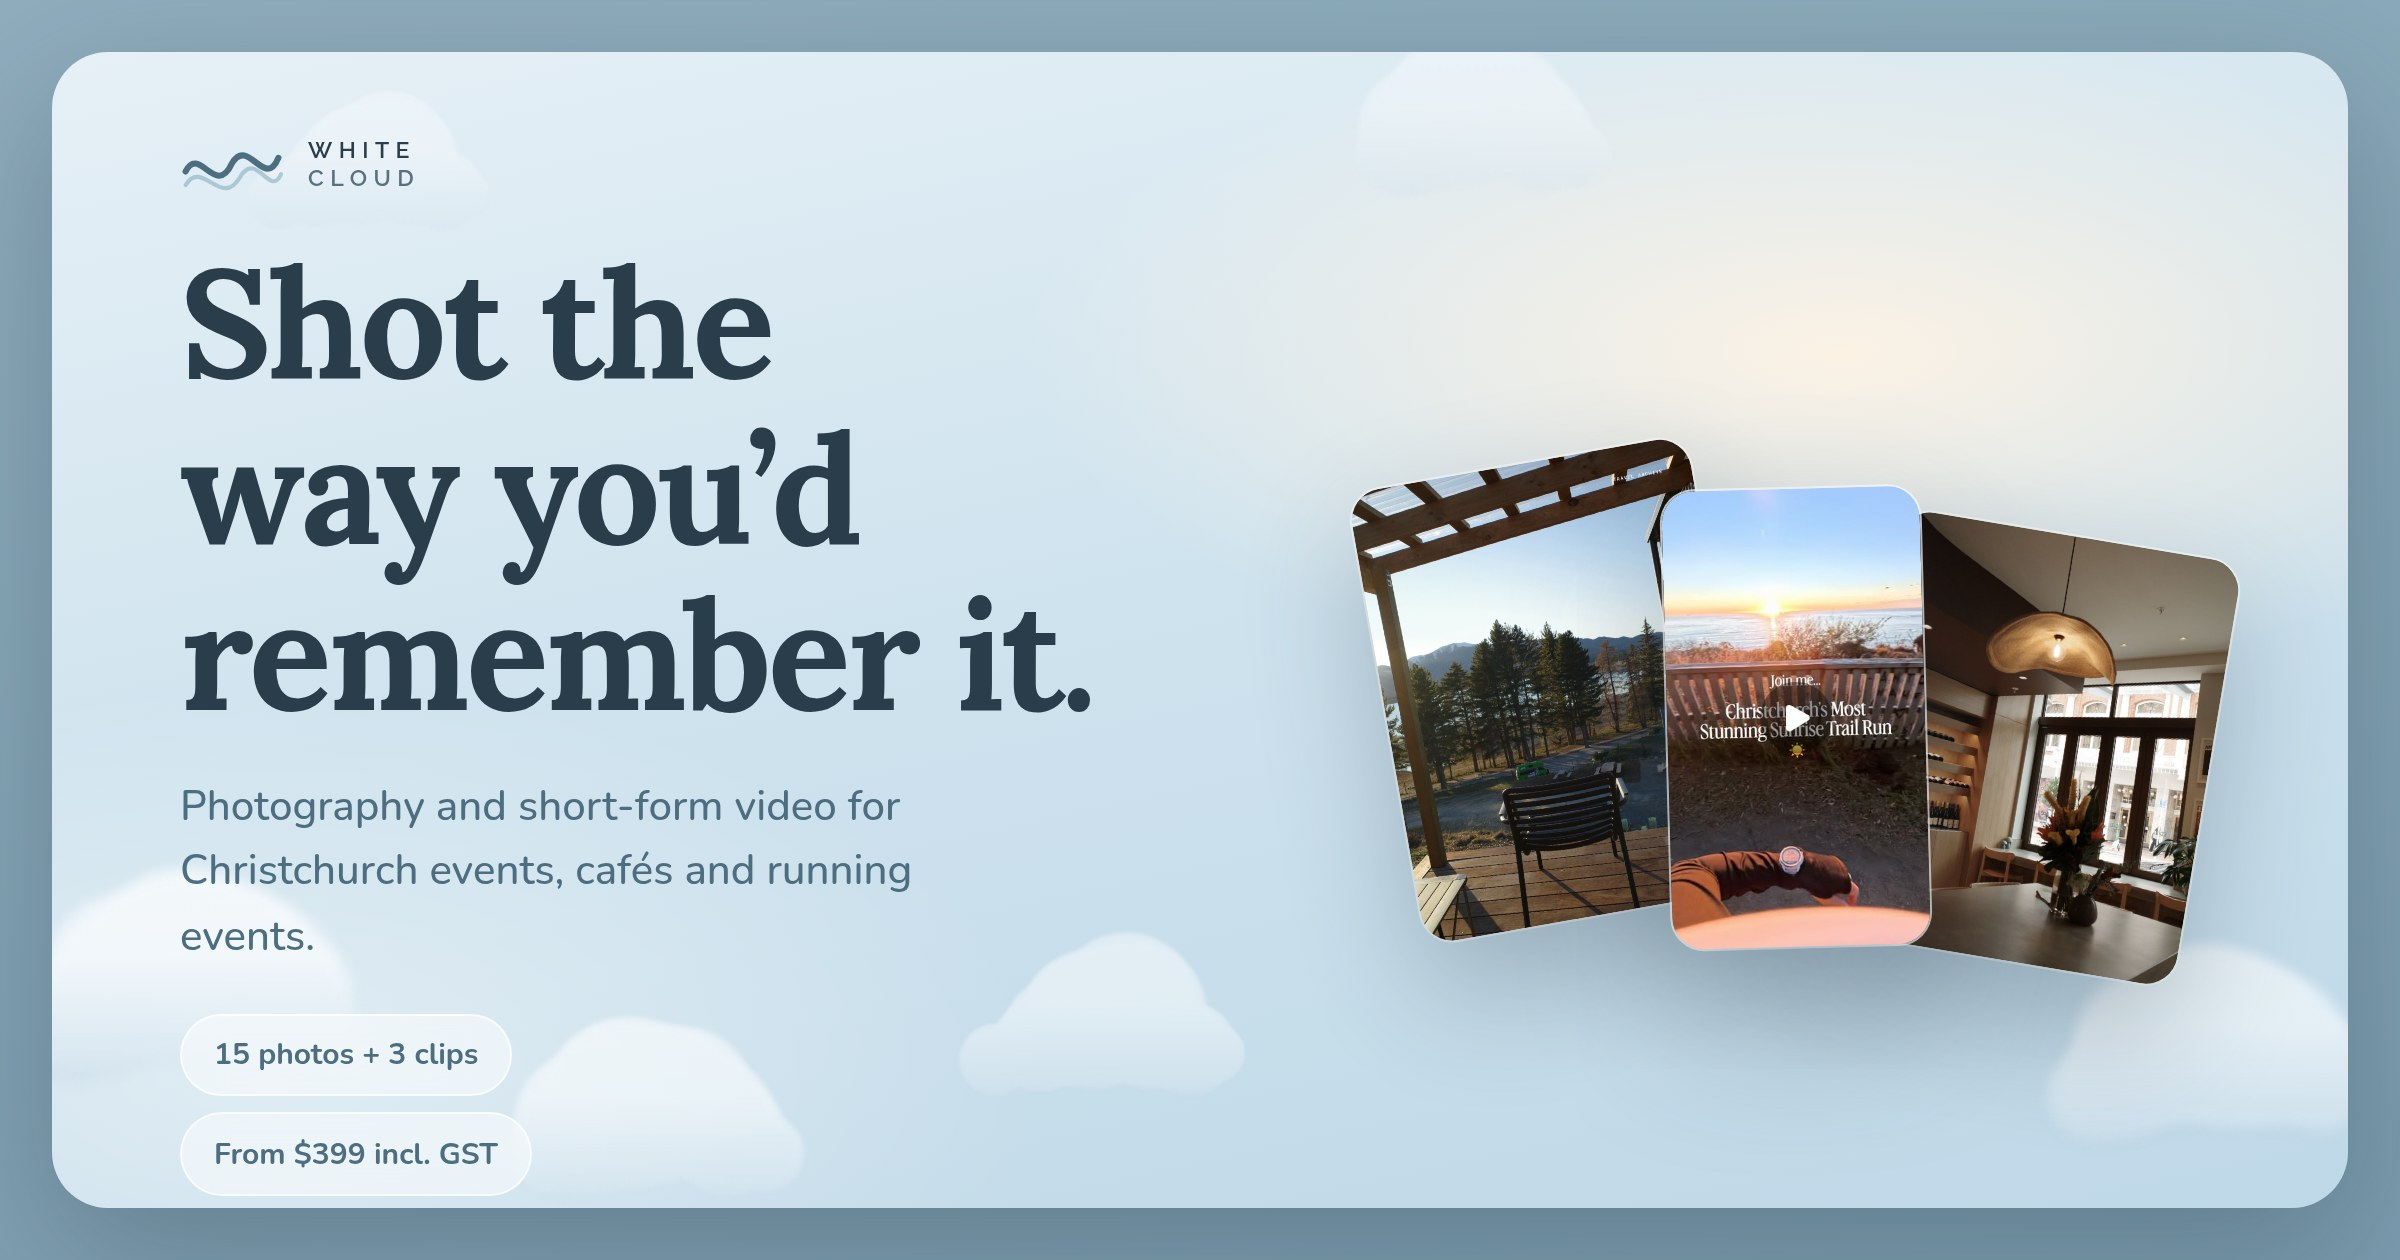
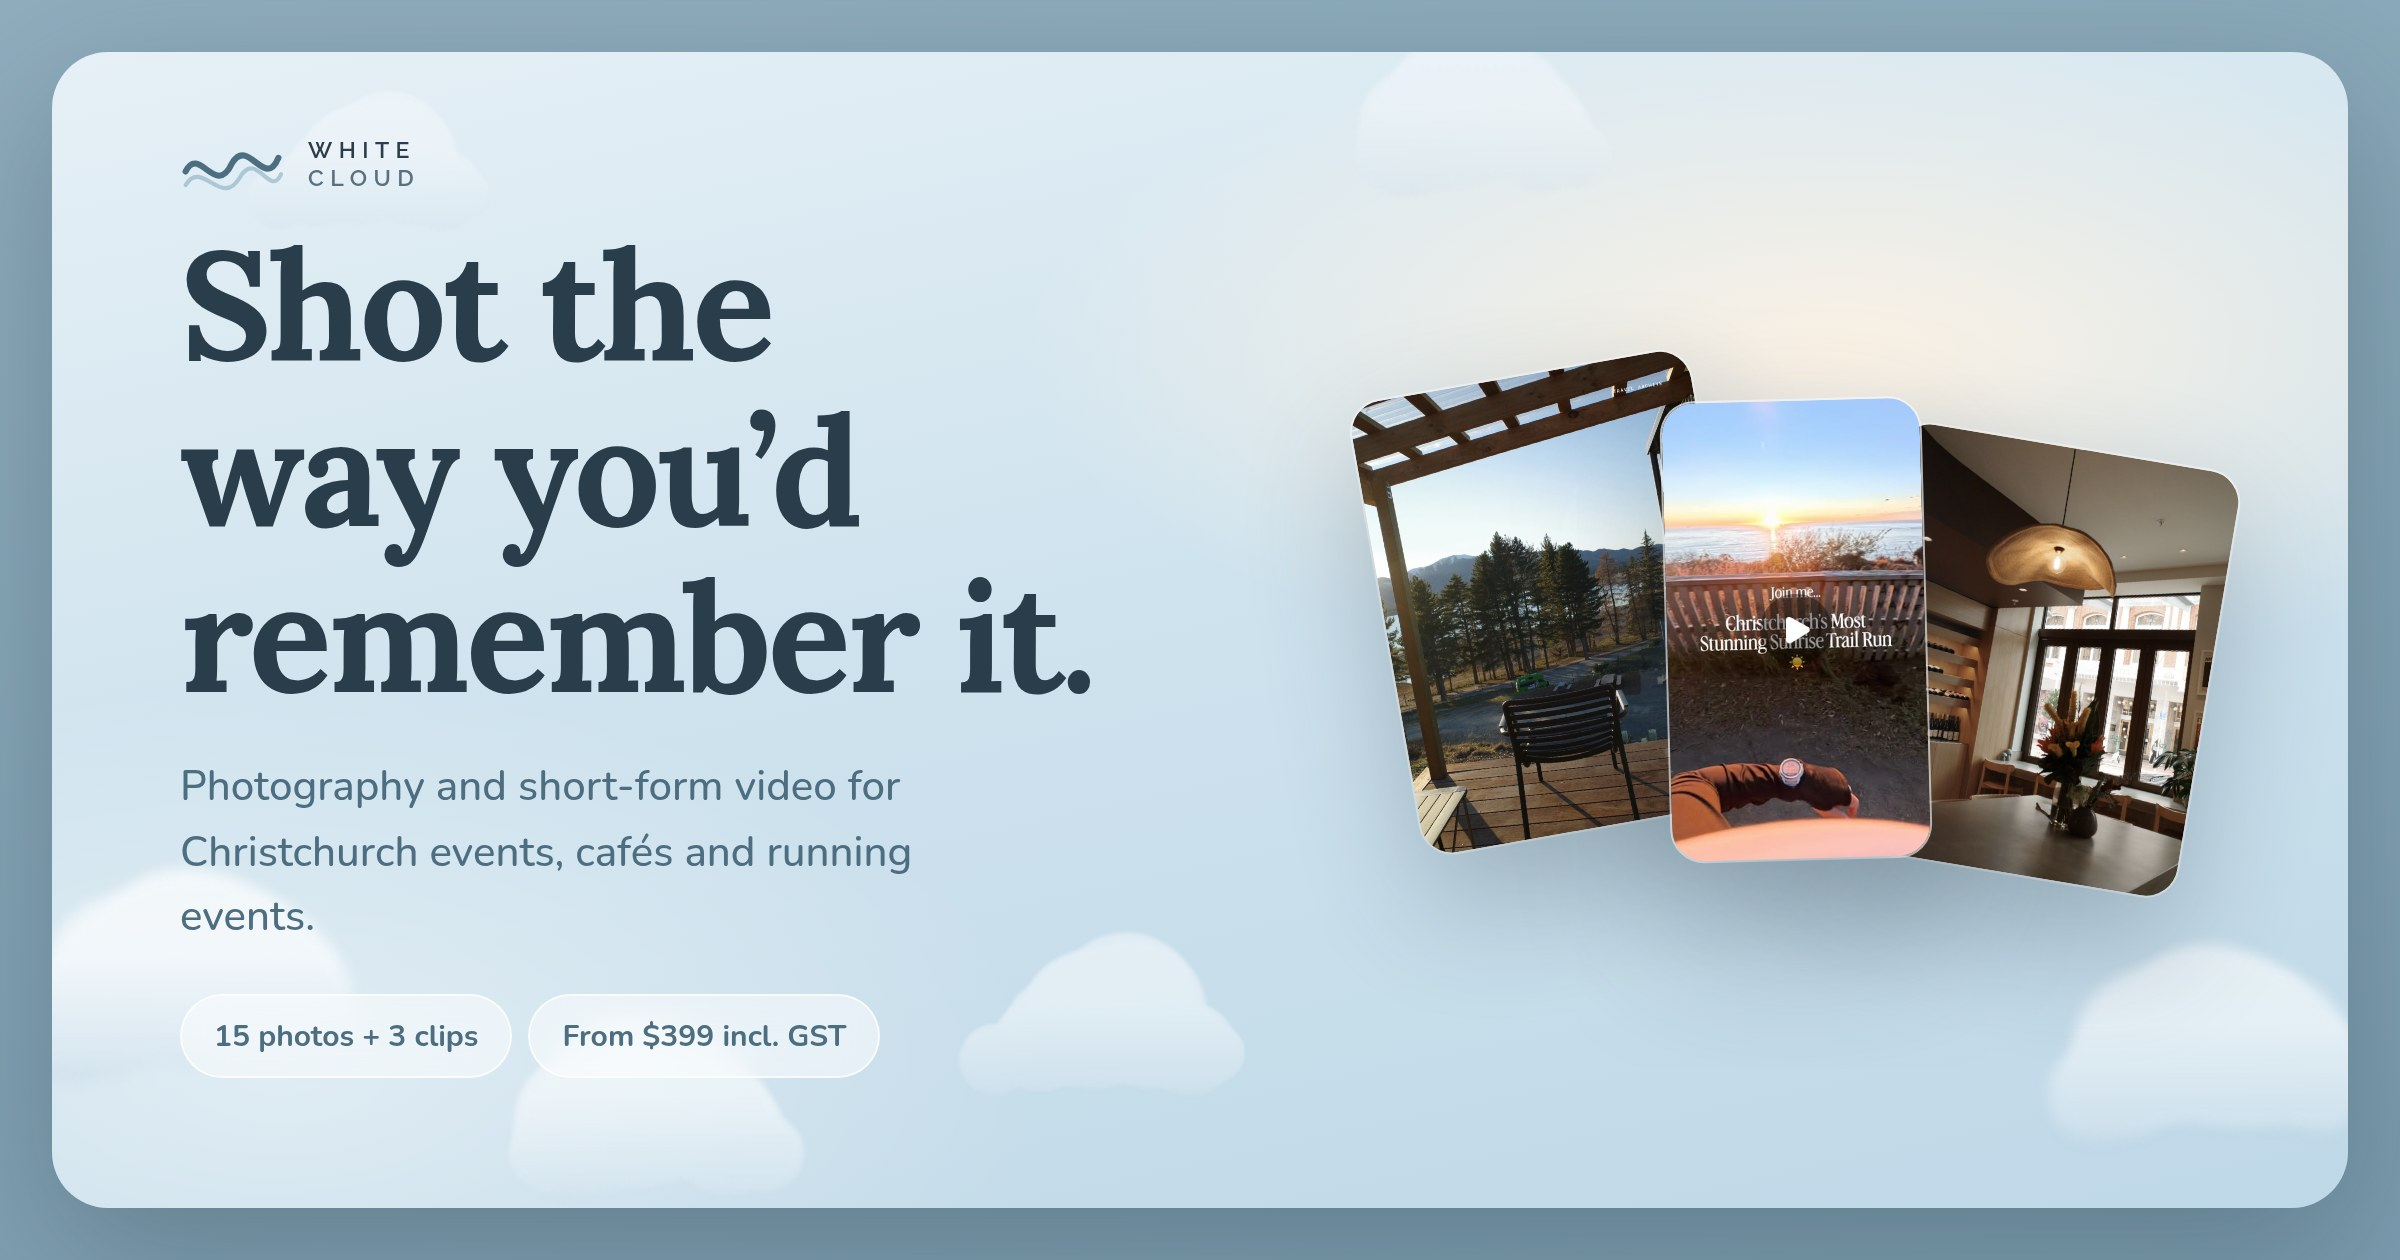
og-shoot: centre the photographs, give the chips their margin back
The padding I added to clear the wordmark sat on the grid, so it pushed
both columns down — the photographs lost their centring and the chips
ended up against the bottom edge.

The offset now sits on the copy column alone, as `top` on a relatively
positioned grid item, which moves it visually without touching its
sibling. The photographs centre in their own column again: 147px above,
154px below.

Chips also go back to one row. They were wrapping to two against a 30ch
cap, which made the copy block taller than it needed to be and ate the
margin at the foot of the card. One row leaves 65px under them, up from
39px.

Claude-Session: https://claude.ai/code/session_01SSGazEJT8798JFiYTgjDCn

diff --git a/og-shoot.html b/og-shoot.html
@@ -39,15 +39,16 @@
   #content {
     position: absolute; inset: 0; z-index: 2;
     display: grid; grid-template-columns: 55fr 45fr; align-items: center;
-    padding-top: 5.5rem;
   }
-  .og-copy { display: flex; flex-direction: column; gap: 1.1rem; padding: 0 0 0 4rem; }
+  /* Nudged down so the wordmark above it has room; the photographs
+     stay centred in their own column. */
+  .og-copy { display: flex; flex-direction: column; gap: 1.1rem; padding: 0 0 0 4rem; position: relative; top: 10px; }
   .og-mark { display: flex; align-items: center; gap: .75rem; position: absolute; top: 2.6rem; left: 4rem; z-index: 3; }
   .og-mark .logo-wordmark span { color: var(--deep); }
   .og-mark .logo-wordmark span:last-child { color: var(--body); }
   h1 { font-size: 56px; line-height: 1.06; letter-spacing: -.022em; max-width: 13ch; margin: 0; }
   .og-sub { font-size: 21px; color: var(--dusk); font-weight: 500; max-width: 34ch; margin: 0; line-height: 1.55; }
-  .og-chips { display: flex; gap: .5rem; margin-top: .3rem; flex-wrap: wrap; max-width: 30ch; }
+  .og-chips { display: flex; gap: .5rem; margin-top: .3rem; }
   .og-chips .wc-chip { font-size: 15px; padding: .42rem 1rem; }
 
   /* The hero's fan, at card scale */
